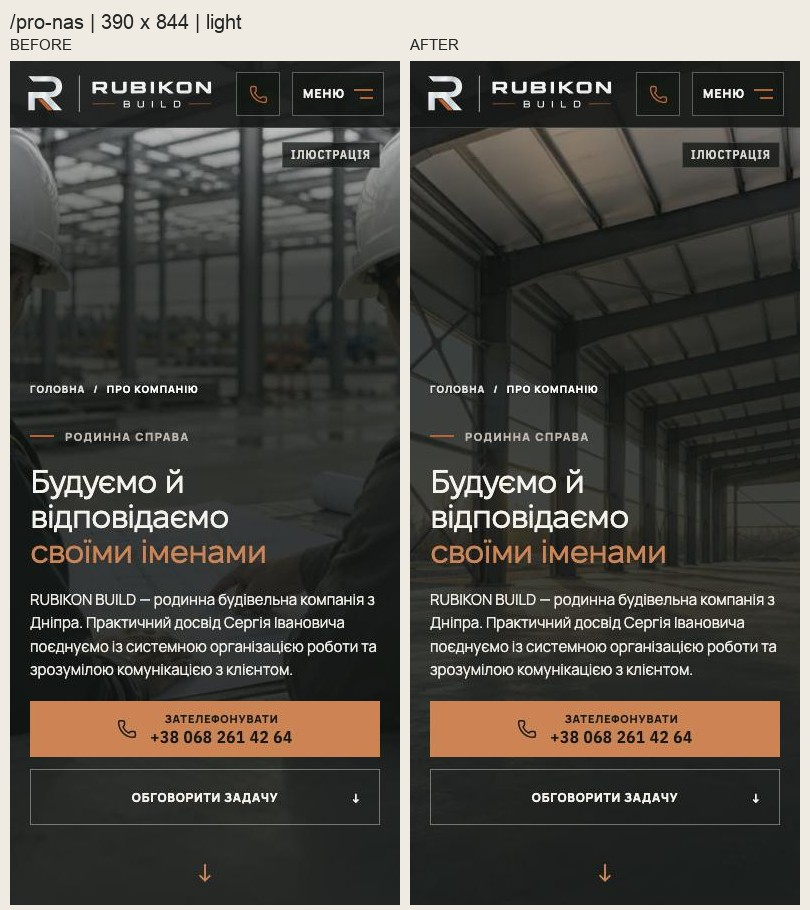
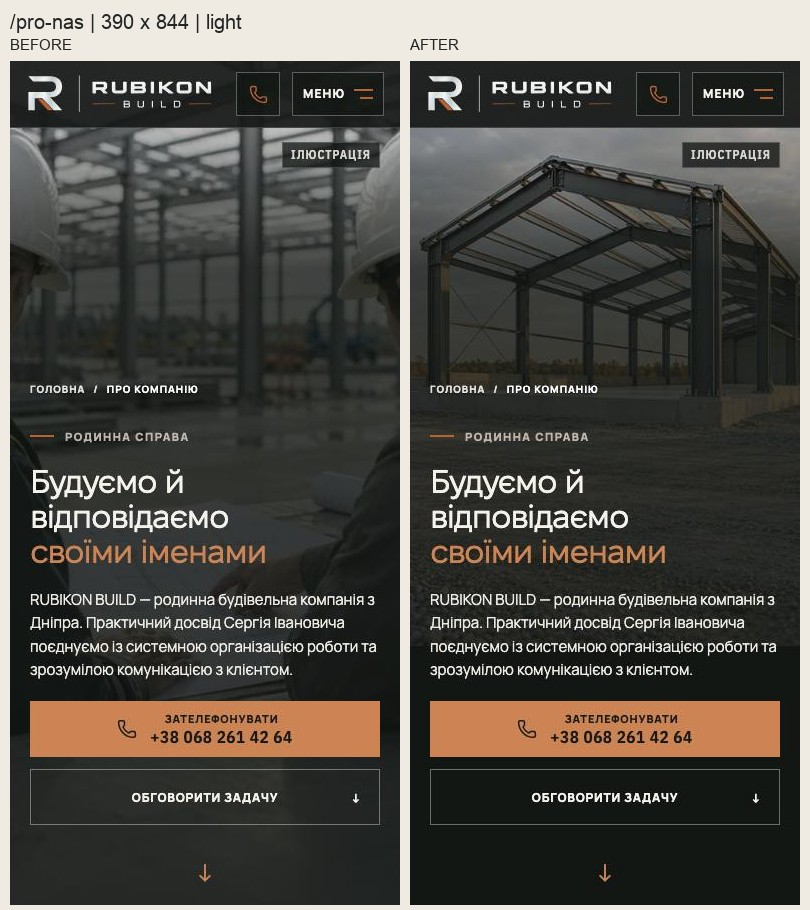
design(mobile): prototype stronger hero media and distinct About render

diff --git a/public/media/reviews/mobile-hero-options/index.html b/public/media/reviews/mobile-hero-options/index.html
@@ -1,0 +1,18 @@
+<!doctype html><html lang="uk"><meta charset="utf-8"><meta name="viewport" content="width=device-width,initial-scale=1"><meta name="robots" content="noindex,nofollow"><title>RUBIKON · вибір мобільного hero</title>
+<style>:root{color-scheme:light;--bg:#f2eee5;--ink:#1a211c;--muted:#596158;--line:#d8cebd;--copper:#97582f}*{box-sizing:border-box}body{margin:0;background:var(--bg);color:var(--ink);font:16px/1.5 system-ui,sans-serif}main{max-width:1320px;margin:auto;padding:28px 20px 60px}.eyebrow{font-size:12px;font-weight:750;letter-spacing:.13em;color:var(--copper)}h1{font-size:clamp(30px,5vw,54px);letter-spacing:-.045em;line-height:1.08;max-width:900px;margin:12px 0 18px}h2{font-size:25px;margin:38px 0 12px}p{max-width:920px}.intro{color:var(--muted)}a{color:var(--copper);text-underline-offset:4px}button,select{font:inherit;color:inherit;border:1px solid #b6ac9d;background:#faf7f0;padding:10px 14px;cursor:pointer}button[aria-pressed=true]{background:#202a23;color:#fff;border-color:#202a23}.tabs{display:flex;gap:7px;flex-wrap:wrap;margin:22px 0 16px}.filters{display:flex;align-items:end;flex-wrap:wrap;gap:12px;padding:14px 0;border-block:1px solid var(--line)}label{display:grid;gap:4px;font-size:12px;font-weight:700}select{font-size:15px}.slides{display:flex;gap:6px;flex-wrap:wrap;margin:15px 0}.slides button{padding:7px 12px}.note{padding:12px 16px;background:#e8dfd0;border-left:3px solid var(--copper);font-size:14px}.cards{display:grid;grid-template-columns:repeat(3,minmax(0,1fr));gap:18px;margin:24px 0}.card{min-width:0;border:1px solid var(--line);padding:13px;background:#e9e3d8}.card.chosen{outline:3px solid var(--copper);outline-offset:1px}.letter{display:inline-flex;align-items:center;justify-content:center;background:#242d26;color:#fff;width:30px;height:30px;font-weight:800}.card h3{font-size:20px;margin:9px 0}.card p{font-size:14px;min-height:64px;margin:0 0 12px}.card img{display:block;width:100%;max-width:390px;height:auto;margin:auto}.card button{width:100%;margin:12px 0 0;background:#f8f3e9}.card a{display:block}.sheet{display:block;max-width:100%;height:auto;margin:16px 0}.choice{padding:17px;background:#212b24;color:#f8f1e5}.choice strong{color:#efb589}.links{display:flex;gap:14px;flex-wrap:wrap;font-size:14px}footer{margin-top:35px;border-top:1px solid var(--line);padding-top:18px;color:var(--muted);font-size:13px}.hidden{display:none!important}@media(max-width:700px){main{padding:22px 12px}.cards{display:flex;overflow-x:auto;scroll-snap-type:x mandatory;padding:4px 4px 15px;margin-inline:-4px;gap:12px}.card{flex:0 0:91%;scroll-snap-align:start}.card p{min-height:0}.tabs button{padding:10px;font-size:14px}.filters{gap:8px}.cards:after{content:'';min-width:2px}}@media(prefers-reduced-motion:no-preference){button{transition:background .15s}}
+</style><main><div class="eyebrow">RUBIKON BUILD · ПРОТОТИПИ ДЛЯ ВИБОРУ · 24.10.2026</div><h1>Більше масштабу.<br>Твій вибір для кожної сторінки.</h1>
+<p class="intro">Три варіанти для «Напрямків», головної та «Про компанію». Спочатку порівняй на 390 px, потім перевір 320 / 430 і темну тему. На телефоні гортай картки A → B → C.</p>
+<p class="note">Це реальні знімки браузера з прототипами. Варіанти B/C — симуляції композицій; текст і кнопки всередині знімків не інтерактивні. Нові рендери — ілюстрації, не виконані об’єкти. Вибір тут зберігається лише у твоєму браузері.</p>
+<nav class="tabs" aria-label="Сторінка"><button data-route="hub">Напрямки</button><button data-route="home">Головна</button><button data-route="about">Про компанію</button></nav>
+<div class="filters"><label>Ширина телефона<select id="width"><option>320</option><option selected>390</option><option>430</option></select></label><label>Тема<select id="theme"><option value="light">Світла</option><option value="dark">Темна</option></select></label><label id="text-label">Збільшений текст<select id="text"><option value="normal">Звичайний</option><option value="200">200% · 390 px · light</option></select></label></div>
+<div id="slideshow"><div class="slides" aria-label="Кадр напрямків"></div><button id="play">Автопоказ усіх 5 кадрів</button><p class="intro" style="font-size:13px">Автопоказ перемикає стабільні знімки кожні 6 секунд. Реальний crossfade залишається в чинному preview сайту.</p></div>
+<h2 id="route-title"></h2><div class="cards" id="cards"></div>
+<div class="choice">Мій вибір: <strong id="choice"></strong><p style="margin:8px 0 0;font-size:14px">Після перегляду напиши в чат, наприклад: «Напрямки B, головна C, про компанію A».</p></div>
+<section id="all-slides"><h2>Усі п’ять сцен поруч</h2><p>Ряд A — поточний масштаб, B — +15%, C — +30%. Ті самі вихідні ілюстрації в обох темах.</p><a id="all-link"><img class="sheet" id="all-image" alt="Три рівні наближення всіх п’яти сцен напрямків"></a></section>
+<h2>Чисті нові рендери</h2><div class="links"><a href="assets/home-power-1024.webp">Головна · ферма</a><a href="assets/about-frame-1024.webp">About A · відкритий каркас</a><a href="assets/about-solid-1024.webp">About B/C · облицювання</a></div>
+<footer>Прототипи: Chromium на 320/390/430 px у двох темах; HOME/About також у WebKit на 390 px та з текстом 200%. Це емуляція, фізичний iPhone 12 потребує твого перегляду. Схвалення варіанта в чаті визначить наступне оновлення Draft PR №243. <a href="https://github.com/leusd100/rubikon-build/pull/243">Відкрити Draft PR</a>.</footer></main>
+<script>const cfg={"hub": {"name": "Напрямки", "path": "/napryamky", "variants": {"A": {"title": "Ціла споруда · 100%", "note": "Поточний прототип, який сподобався. Найбільше контексту, найспокійніший кадр."}, "B": {"title": "Ближче · +15%", "note": "Помірне наближення. Конструкція виразніша; частина крайніх прольотів виходить за кадр."}, "C": {"title": "Сильний акцент · +30%", "note": "Споруда більша. Втрачає більше країв: порівняй особливо каркас і покрівлю на всіх п’яти кадрах."}}}, "home": {"name": "Головна", "path": "/", "variants": {"A": {"title": "Поточний інтер’єр H1", "note": "Контрольний варіант: глибока перспектива, спокійна композиція."}, "B": {"title": "Масштаб · нова ферма", "note": "Новий рендер. Повний структурний проліт і важка ферма; нижче — спокійна зона для тексту."}, "C": {"title": "Потужний крупний план", "note": "Той самий новий рендер у ближчому кадрі. Ферма домінує; крайні колони залишаються за кадром."}}}, "about": {"name": "Про компанію", "path": "/pro-nas", "variants": {"A": {"title": "Відкритий каркас", "note": "Новий окремий рендер. Виразний фронтон, видно основу й конструкцію. Не повторює HOME."}, "B": {"title": "Солідність · облицювання", "note": "Інший новий рендер: каркас, стінові панелі й широкий проріз. Більш завершений архітектурний образ."}, "C": {"title": "Ближче до конструкції", "note": "Крупніший кадр рендера B. Акцент на колоні, ригелі та примиканні; це фрагмент будівлі, а не загальний вид."}}}};const q=id=>document.getElementById(id);const subjectNames=['Ангари','Зерносховища','Металоконструкції','Бетон','Покрівлі'];let route=new URLSearchParams(location.search).get('route')||'hub';if(!cfg[route])route='hub';let slide=1,timer=null;let choices={};try{choices=JSON.parse(localStorage.getItem('rubikon-hero-options-choice')||'{}')}catch{};
+function summary(){q('choice').textContent=Object.entries(cfg).map(([k,v])=>v.name+' '+(choices[k]||'—')).join(' · ')}
+function stop(){if(timer){clearInterval(timer);timer=null}q('play').textContent='Автопоказ усіх 5 кадрів'}
+function render(){const enlarged=route!=='hub'&&q('text').value==='200';if(enlarged){q('width').value='390';q('theme').value='light'}const w=q('width').value,t=q('theme').value;document.querySelectorAll('[data-route]').forEach(b=>b.setAttribute('aria-pressed',b.dataset.route===route));q('route-title').textContent=cfg[route].name+' · A / B / C';q('slideshow').classList.toggle('hidden',route!=='hub');q('all-slides').classList.toggle('hidden',route!=='hub');q('text-label').classList.toggle('hidden',route==='hub');q('cards').replaceChildren();for(const[v,o]of Object.entries(cfg[route].variants)){const card=document.createElement('article');card.className='card'+(choices[route]===v?' chosen':'');const file=`screens/${route}-${v}-${w}-${t}${route==='hub'?'-s'+slide:''}${enlarged?'-text200':''}.jpg`;card.innerHTML=`<span class="letter">${v}</span><h3>${o.title}</h3><p>${o.note}</p><a href="${file}" target="_blank"><img src="${file}" alt="${cfg[route].name}: варіант ${v}, ${w} px, ${t}${route==='hub'?', кадр '+slide:''}" loading="eager"></a><button type="button">${choices[route]===v?'Позначено '+v:'Мій варіант '+v}</button>`;card.querySelector('button').onclick=()=>{choices[route]=v;try{localStorage.setItem('rubikon-hero-options-choice',JSON.stringify(choices))}catch{}render()};q('cards').append(card)}q('all-image').src=`hub-all-slides-${t}.jpg`;q('all-link').href=q('all-image').src;document.querySelectorAll('[data-slide]').forEach(b=>b.setAttribute('aria-pressed',Number(b.dataset.slide)===slide));summary()}
+document.querySelectorAll('[data-route]').forEach(b=>b.onclick=()=>{stop();route=b.dataset.route;q('text').value='normal';render()});for(let i=1;i<=5;i++){const b=document.createElement('button');b.textContent=i+' · '+subjectNames[i-1];b.dataset.slide=i;b.onclick=()=>{stop();slide=i;render()};document.querySelector('.slides').append(b)}q('play').onclick=()=>{if(timer){stop();return}q('play').textContent='Зупинити автопоказ';timer=setInterval(()=>{slide=slide%5+1;render()},6000)};for(const id of['width','theme','text'])q(id).onchange=render;document.addEventListener('visibilitychange',()=>{if(document.hidden)stop()});render();</script></html>

diff --git a/tests/e2e/hero-video.spec.ts b/tests/e2e/hero-video.spec.ts
@@ -210,8 +210,31 @@ async function denyOptionalCookies(page: Page) {
 
 const pages = [
   { path: '/', hero: '.hv2-hero', image: '.hv2-hero-still', family: 'hero-h1-', old: 'hero-mobile-band-' },
-  { path: '/pro-nas', hero: '.about-subhero', image: '.about-hero-still', family: 'hero-h1-', old: 'about-p5-' },
+  { path: '/pro-nas', hero: '.about-subhero', image: '.about-hero-still', family: 'about-frame-concept-v2-', old: 'about-p5-' },
 ] as const;
+
+test('About phone concept keeps its full framing before and after hydration', async ({ browser, baseURL }, testInfo) => {
+  test.skip(testInfo.project.name !== 'desktop-chromium', 'compare explicit phone contexts once');
+  const framing = [];
+  for (const javaScriptEnabled of [false, true]) {
+    const context = await browser.newContext({ baseURL, javaScriptEnabled, viewport: { width: 390, height: 844 } });
+    try {
+      const page = await context.newPage();
+      await page.goto('/pro-nas', { waitUntil: 'load' });
+      const image = page.locator(javaScriptEnabled ? '.about-hero-still' : '.about-hero-media img.direction-hero-poster');
+      await expect(image).toBeVisible();
+      framing.push(await image.evaluate(element => {
+        const image = element as HTMLImageElement;
+        const style = getComputedStyle(image), rect = image.getBoundingClientRect();
+        return { source: new URL(image.currentSrc).pathname, fit: style.objectFit, position: style.objectPosition,
+          width: rect.width, height: rect.height, x: rect.x, y: rect.y };
+      }));
+    } finally { await context.close(); }
+  }
+  expect(framing[0]).toEqual(framing[1]);
+  expect(framing[1].fit).toBe('contain');
+  expect(framing[1].height).toBe(585);
+});
 
 test('a request link followed before hydration still opens the HOME form', async ({ page }) => {
   await denyOptionalCookies(page);
@@ -309,7 +332,8 @@ for (const deviceScaleFactor of [1, 2]) {
         const videos: string[] = [];
         page.on('request', request => {
           const path = new URL(request.url()).pathname;
-          if (path.includes(target.family) || path.includes(target.old)) posters.push(path);
+          if (path.includes(target.family) || path.includes(target.old)
+            || (target.path === '/pro-nas' && path.includes('/hero-h1-'))) posters.push(path);
           if (/\.(mp4|m4v)$/.test(path)) videos.push(path);
         });
         await page.goto(target.path, { waitUntil: 'load' });
@@ -330,7 +354,7 @@ for (const deviceScaleFactor of [1, 2]) {
 
 for (const target of [
   { path: '/', width: 761, family: 'hero-h1-' },
-  { path: '/pro-nas', width: 601, family: 'hero-h1-' },
+  { path: '/pro-nas', width: 601, family: 'about-frame-concept-v2-' },
 ]) {
   test(`${target.path}: the phone poster is not fetched above its ${target.width - 1}px boundary`, async ({ page }) => {
     await denyOptionalCookies(page);

diff --git a/tests/e2e/smoke.spec.ts b/tests/e2e/smoke.spec.ts
@@ -196,9 +196,9 @@ test.describe('public route smoke tests', () => {
             expectedHeroPosterMessage = 'Home should use its static phone still';
             expectedHeroPosterSubstring = '/media/home-v2/concepts/hero-h1-';
           } else if (route.path === '/pro-nas') {
-            // Owner-approved P5 process illustration instead of the phone montage.
+            // Distinct people-free About concept instead of the phone montage or HOME illustration.
             expectedHeroPosterMessage = 'About should use its static phone still';
-            expectedHeroPosterSubstring = '/media/home-v2/concepts/hero-h1-';
+            expectedHeroPosterSubstring = '/media/about/about-frame-concept-v2-';
           } else {
             expectedHeroPosterMessage = `${route.path} should use its mobile hero poster`;
             expectedHeroPosterSubstring = '-768w.webp';
@@ -456,7 +456,7 @@ test.describe('public route smoke tests', () => {
     const still = hero.locator('img.about-hero-still');
     await expect(still).toBeVisible();
     await expect.poll(() => still.evaluate((element) => (element as HTMLImageElement).currentSrc), { timeout: 10_000 })
-      .toContain('/media/home-v2/concepts/hero-h1-');
+      .toContain('/media/about/about-frame-concept-v2-');
     // The still is decorative for a screen reader (no alt), but a sighted visitor is told it is an illustration.
     // The people-free candidate preserves the provenance decision of 20.10 (OD-PX-12 A; PDO-04). The stamp sits in the first screen,
     // under the compact header, clear of the crumbs and the title

diff --git a/app/components/AboutHeroVideo.tsx b/app/components/AboutHeroVideo.tsx
@@ -6,13 +6,13 @@ import { useSyncExternalStore } from 'react';
 import { DirectionHeroVideo } from './DirectionHeroVideo';
 import { useViewportVariant, type ViewportVariant } from '../hooks/useViewportVariant';
 
-// Mobile media review, 24.10: candidate A reuses HOME's approved H1 industrial interior.
+// Owner revision, 24.10: a distinct generated exterior frame concept replaces the repeated HOME H1.
 // It has no people and makes no claim to show a completed RUBIKON project; the existing
 // visible «Ілюстрація» label remains. Desktop/tablet footage and the 600px boundary are unchanged.
 // Owner preview is required before merging this selection.
 const STATIC_QUERY = '(max-width: 600px)';
-export const ABOUT_STATIC_SRC = '/media/home-v2/concepts/hero-h1-1024w.webp';
-const ABOUT_STATIC_SRCSET = '/media/home-v2/concepts/hero-h1-480w.webp 480w, /media/home-v2/concepts/hero-h1-768w.webp 768w, /media/home-v2/concepts/hero-h1-1024w.webp 1024w';
+export const ABOUT_STATIC_SRC = '/media/about/about-frame-concept-v2-1024w.webp';
+const ABOUT_STATIC_SRCSET = '/media/about/about-frame-concept-v2-480w.webp 480w, /media/about/about-frame-concept-v2-768w.webp 768w, /media/about/about-frame-concept-v2-1024w.webp 1024w';
 
 // As on HOME, the 0.85 slow-down is in the files (re-timed to an even 30 fps by scripts/retime-hero-clips.py), so the
 // desktop clips play at 1.0 (OD-S1 option B, 15.10)

diff --git a/app/mobile-media-review.css b/app/mobile-media-review.css
@@ -6,5 +6,11 @@
   }
 }
 @media (max-width: 600px) {
-  .about-hero-media > .about-hero-still { object-position: 48% 38%; }
+  /* Keep the full gable inside narrow/tall phones instead of cropping its columns.
+     The existing hero overlay continues over the quiet lower text area. */
+  main.about-page .about-hero-media img.direction-hero-poster {
+    height: min(150vw, 100%) !important;
+    object-fit: contain;
+    object-position: center top;
+  }
 }

diff --git a/docs/handoffs/2026-10-24-mobile-hero-options.md b/docs/handoffs/2026-10-24-mobile-hero-options.md
@@ -1,0 +1,27 @@
+# RUBIKON — варіанти мобільних hero для вибору
+
+24.10.2026 · [Draft PR №243](https://github.com/leusd100/rubikon-build/pull/243).
+
+[Відкрити галерею A/B/C](../../public/media/reviews/mobile-hero-options/index.html). На телефоні гортати картки вбік. Є320/390/430 px, light/dark, усі5 сцен хаба й збільшення тексту HOME/About до200%. Для швидкого вибору: «Напрямки B, головна C, про компанію A».
+
+| Сторінка | A | B | C | Моя початкова рекомендація |
+|---|---|---|---|---|
+| Напрямки | Поточна ціла споруда,100% | +15%, виразніший конструктив | +30%, акцент сильніший, частина крайніх прольотів губиться | **B** — баланс масштабу й читабельності. Переглянути всі5 кадрів, особливо каркас/дах |
+| Головна | Чинний H1 як контроль | Новий рендер, повний проліт із масивною фермою | Та сама нова ферма крупніше, колони частково поза кадром | **B** для цілісного простору; **C**, якщо хочеться максимально сильного першого акценту |
+| Про компанію | Новий відкритий каркас | Інший новий рендер — каркас з облицюванням | Крупний конструктивний кут рендера B | **A** для чесної предметності будівництва; **B** для більш завершеного й солідного образу |
+
+About A/B/C не використовують H1 головної. Згенерованих людей немає. Усі нові рендери чесно позначено «Ілюстрація», це не фото виконаних компанією об’єктів. Джерела й фінальні завдання генерації: [render-prompts-and-sources.md](2026-10-24-mobile-hero-render-sources.md).
+
+Варіанти B/C у галереї — браузерні симуляції, а не автоматично обраний фінальний дизайн. Поточний код Draft PR має новий About A; HOME і зум напрямків чекають вибору власника. Самі кадри напрямків узято з чинних ілюстрацій, без нової генерації. Макет тексту, шапка й кнопки збережені. Сильний зум свідомо показує фрагмент; він не обіцяє повну споруду.
+
+## Перевірки
+
+144 підсумкових знімки браузера:126 Chromium (3ширини×2теми; у хабі всі5сцен),6 із текстом200% і12 WebKit для HOME/About390. JavaScript errors0; горизонтальний overflow0; горизонтальне переповнення hero-тексту0. H1/hero/CTA geometry між варіантами при звичайному тексті однакова. На320px із200% текстом може знадобитися вертикальна прокрутка — це очікувано, не імітація системного Dynamic Type. Галерея показує стабільні кадри, реальну плавність crossfade треба дивитися у preview сайту. Оригінальні функціональні timing/pause/reduced-motion перевірки напрямків з попереднього етапу не замінено статичними знімками.
+
+About A повторно перевірено окремо:12 Chromium-знімків320/375/390/430/768 у двох темах;6 WebKit320/390/430;3 збільшення тексту;2 reduced-motion. TypeScript/ESLint і функціональні hydration/one-poster/no-video тести пройшли. Виміряні текстові зони About A390 у двох темах без порушень заданих контрастних порогів; це не повний WCAG-аудит.
+
+## Вага й статус
+
+About A: WebP480 —51 918B,768 —114 752B,1024 —180 124B. Проти тимчасового повтору HOME це+10 416B наDPR1 та+39 938B наDPR3. Нового відео немає; preload/hydration узгоджені й не запитують старий H1 наAbout. Для інших кандидатів traffic/LCP ще не заявляємо: галерея використовує знімки й data-URI симуляції. Після вибору потрібні фінальні responsive AVIF/WebP та перевірка холодного завантаження.
+
+Галерея у `public/media/reviews/mobile-hero-options/` — тимчасовий review-артефакт Draft PR, має noindex/nofollow і не включена до навігації/сайткарти. Знімки завантажуються лише при відкритті галереї. Перед merge цей review-каталог треба прибрати або явно погодити його збереження. Production, DEC-18 snapshots і main не змінено. Перегляд власником на фізичному iPhone12 ще потрібен.

diff --git a/docs/handoffs/2026-10-24-mobile-hero-render-sources.md b/docs/handoffs/2026-10-24-mobile-hero-render-sources.md
@@ -1,0 +1,29 @@
+# Нові ілюстрації: джерела й завдання генерації
+
+24.10.2026. Власник попросив прибрати повтор HOME на «Про компанію», дозволив новий рендер або наявні матеріали; потім попросив по кілька сильніших мобільних прототипів для HOME/About і варіанти зуму «Напрямків».
+
+Застосовано вбудований image_gen через навичку imagegen. Усі три нові зображення — AI architectural concepts; вони не зображають команду чи виконані RUBIKON об’єкти. Зовнішнього stock немає. У hero збережено «Ілюстрація». Фінальний вибір власника ще очікується.
+
+## About A — відкритий каркас, новий окремий рендер
+
+Primary request: photoreal architectural visualization for the MOBILE About Company hero of RUBIKON BUILD. Portrait 1024×1536. Distinct exterior three-quarter ground-level view of a modest single-storey industrial steel-frame hall under construction; complete front gable, two columns, coherent rafters/purlins, bolted connections; 2–3 bays receding at right, some roof panels at rear. No people, machinery, vehicles, signs, logos, text or watermark. Structure legible in central portrait, little empty sky; lower third quiet concrete/gravel for white copy. Premium graphite steel, warm neutral concrete, restrained copper side highlights, soft daylight, corrected verticals, 40mm camera feel. No sunset spectacle, fog, over-dark shadows, impossible structures or futuristic design. Not a completed-project photo; website adds Illustration label. Must differ from HOME’s long finished hall interior.
+
+## HOME B/C — масштабний проліт і ферма
+
+Primary request: single portrait 1024×1536 photoreal architectural concept for premium Ukrainian industrial construction HOME. Monumental but credible steel hall interior from low eye height, wide structural bay rather than long narrow tunnel. Powerful graphite steel roof truss in upper third, thick columns near x18%/82%, secondary bays receding at right. Credible straight beams/purlins and bolted plates. Height and strength through proportions/camera/clear structure, not blackness. 32mm corrected architectural photography, partial roof cladding, neutral daylight upper right, restrained copper edges, quiet slab lower35% for website copy. Main structure legible in central65% width for crop. No people/equipment/vehicles/branding/text/watermark; no sunset spectacle, glow, fog, crushed shadows, sci-fi or surreal structure. Generic illustrative render, not a real company project. B shows whole image in top portrait field; C uses a closer full-height crop.
+
+## About B/C — облицьована промислова споруда
+
+Primary request: single portrait1024×1536 photoreal architectural visualization for B2B Ukrainian industrial About Company hero. Substantial single-storey building during graphite corrugated panel installation. Strong front corner, tall steel column, broad lintel, clean open bay and visible triangular gable; clad bays receding left. Ground-level three-quarter exterior; solidity through realistic proportions and visible steel, no empty shed/large empty sky. Neutral overcast light, restrained warm copper reflection, textured concrete plinth and quiet lower30% slab for text. Main bay central70%, roof near20% height, bases near62%, sky10–15%. No people/team/vehicles/cranes/signage/logos/text/watermark. Generic AI architectural concept, label Illustration. Graphite/warm concrete/copper; no crushed shadows, spectacular sunset, futuristic forms, disconnected connections or impossible cantilevers; corrected verticals, 40mm. Different from finished interior/tunnel. B preserves whole source below header; C emphasizes structural corner with closer crop.
+
+## «Напрямки» — жодних нових згенерованих кадрів
+
+Чинні `design-assets/directions-sequence-concepts/{daylight,blue-hour}/{subject}.png`. Вихідне вікно A: (627,0)–(1881,836),1254×836. B — crop в1,15 раза; C — в1,30. Фокус x у вільному просторі: angary72%, grain63%, steel80%, concrete55%, roof50%; y22%. Точні координати кожного з30 файлів у `asset-manifest.json`. П’ять предметів у двох темах; рендери HOME/About у слайди не підставлялися.
+
+## Файли
+
+Оригінали PNG збережено поруч в outputs/hero-options/assets і outputs/about-frame-concept-v2-source.png. У PR — лише оптимізовані WebP, знімки й галерея. Реальні production claims/команда/SEO/форми не змінювалися.
+
[3 lines of base64/hex data omitted]

diff --git a/docs/handoffs/2026-10-24-mobile-media-review.md b/docs/handoffs/2026-10-24-mobile-media-review.md
@@ -1,5 +1,7 @@
 # Mobile Hero Media — prototype for owner review (24.10.2026)
 
+> **Оновлення за зауваженням власника:** повтор HOME на About відхилено. Новий окремий рендер — About A у галереї другого раунду. Далі наведено історичний огляд першого раунду; його рекомендація H1 для About вже не актуальна. Нові HOME/About та зум хаба ще чекають вибору.
+
 Три зміни: `/pro-nas` отримує people-free H1 на телефоні; `/napryamky` показує всі п’ять конструкцій у мобільному полі 3:2; `/pokrivelni-roboty` має окремий crop з меншим небом. Вихідні ілюстрації вже наявні в сайті. Зміна візуальних рішень потребує owner preview перед merge. Desktop, tablet >760 px, тексти, шапка та CTA geometry збережені. Еталони DEC-18 не оновлено.
 
 ![Усі маршрути до/після light](media/mobile-media-review/before-after-all-routes-light.jpg)
